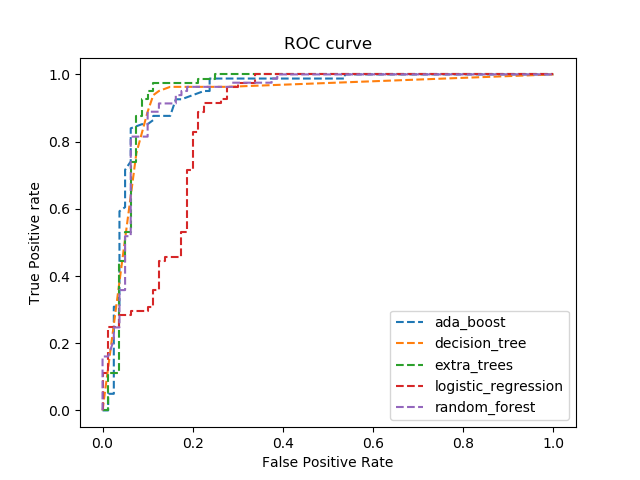
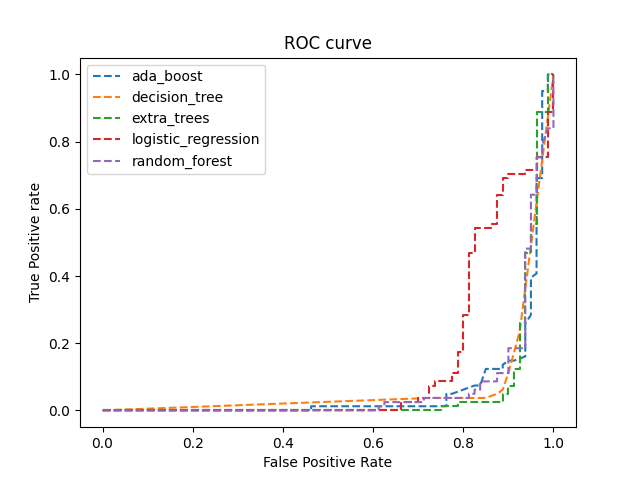
added parameter to specify the positive class

diff --git a/Advanced-ML-Eval/run_fake_news_exp3.py b/Advanced-ML-Eval/run_fake_news_exp3.py
@@ -11,14 +11,15 @@ def removekey(d, key):
 
 
 def apply_analysis(df, train_df, test_df, models_passed, models_dictionary, trained_models_dir,
-                   cols_to_drop, nb_bins_passed, testing):
+                   cols_to_drop, nb_bins_passed, testing, pos_class_label=1):
     sm = ShallowModel(df=df, df_train=train_df, df_test=test_df,
                        target_variable='label',
                        plots_output_folder='plots/fake_news/{}_test_{}/'.format(exp, testing),
                        trained_models_dir=trained_models_dir,
                        models_dict=models_dictionary,
                        scaling='z-score',
-                       cols_drop=cols_to_drop)
+                       cols_drop=cols_to_drop,
+                      pos_class_label=pos_class_label)
 
     # identify frequent patterns in data
     # sm.identify_frequent_patterns()
@@ -112,12 +113,12 @@ if __name__ == '__main__':
     # test on buzz feed
     apply_analysis(df=df_buzzbuzz, train_df=buzz_train, test_df=buzz_test,
                    models_passed=models, models_dictionary=models_dict, trained_models_dir=trained_models_dir,
-                   cols_to_drop=cols_drop, nb_bins_passed=3, testing='buzzfeed')
+                   cols_to_drop=cols_drop, nb_bins_passed=3, testing='buzzfeed', pos_class_label=0)
 
     # test on fakes
     apply_analysis(df=df_buzzfakes, train_df=buzz_train.drop(['article_content'], axis=1), test_df=fakes_test,
                    models_passed=models2, models_dictionary=models_dict2, trained_models_dir=trained_models_dir,
-                   cols_to_drop=None, nb_bins_passed=2, testing='fakes')
+                   cols_to_drop=None, nb_bins_passed=2, testing='fakes', pos_class_label=0)
 
 
 

diff --git a/Advanced-ML-Eval/AdvancedEvaluation.py b/Advanced-ML-Eval/AdvancedEvaluation.py
@@ -19,7 +19,8 @@ class ShallowModel:
                  plots_output_folder, trained_models_dir,
                  models_dict,
                  scaling='robust', 
-                 cols_drop=None):
+                 cols_drop=None,
+                 pos_class_label=1):
 
         # main df, train df, test df, and target variable
         self.df = df
@@ -53,6 +54,10 @@ class ShallowModel:
         self.mean_empirical_risks = []
         self.risk_dfs = []
         self.y_preds = []
+
+        # the label of the positive classes -- usually its 1 but with the exception of fake news data,
+        # the positive (fake) is 0
+        self.pos_class_label = pos_class_label
 
         # directory to load trained models from
         if not os.path.exists(trained_models_dir):
@@ -96,8 +101,10 @@ class ShallowModel:
 
         # predict classes/labels
         y_pred = trained_model.predict(X_test)
-        probas = trained_model.predict_proba(X_test)[:, 1]
-
+        if self.pos_class_label == 1:
+            probas = trained_model.predict_proba(X_test)[:, 1]
+        else:
+            probas = trained_model.predict_proba(X_test)[:, 0]
         self.evaluate_predictions(y_test=y_test, y_pred=y_pred)
         self.y_preds.append(y_pred)
 

diff --git a/Advanced-ML-Eval/run_fake_news_exp1.py b/Advanced-ML-Eval/run_fake_news_exp1.py
@@ -39,7 +39,8 @@ if __name__ == '__main__':
                           trained_models_dir='input/fake_news_trained_models/{}/'.format(exp),
                           models_dict=models_dict,
                           scaling='z-score',
-                          cols_drop=cols_drop)
+                          cols_drop=cols_drop,
+                          pos_class_label=0)
 
         # identify frequent patterns in data
         sm.identify_frequent_patterns()
